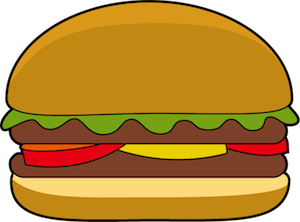
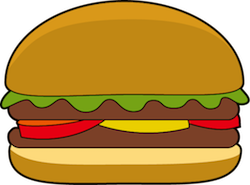
Adjusting CSS to imrove view port sizing

diff --git a/public/assets/css/style.css b/public/assets/css/style.css
@@ -6,3 +6,7 @@ body {
 .btn-sm {
     margin-left: 10px;
 }
+
+img {
+    margin-top: 10px;
+}
